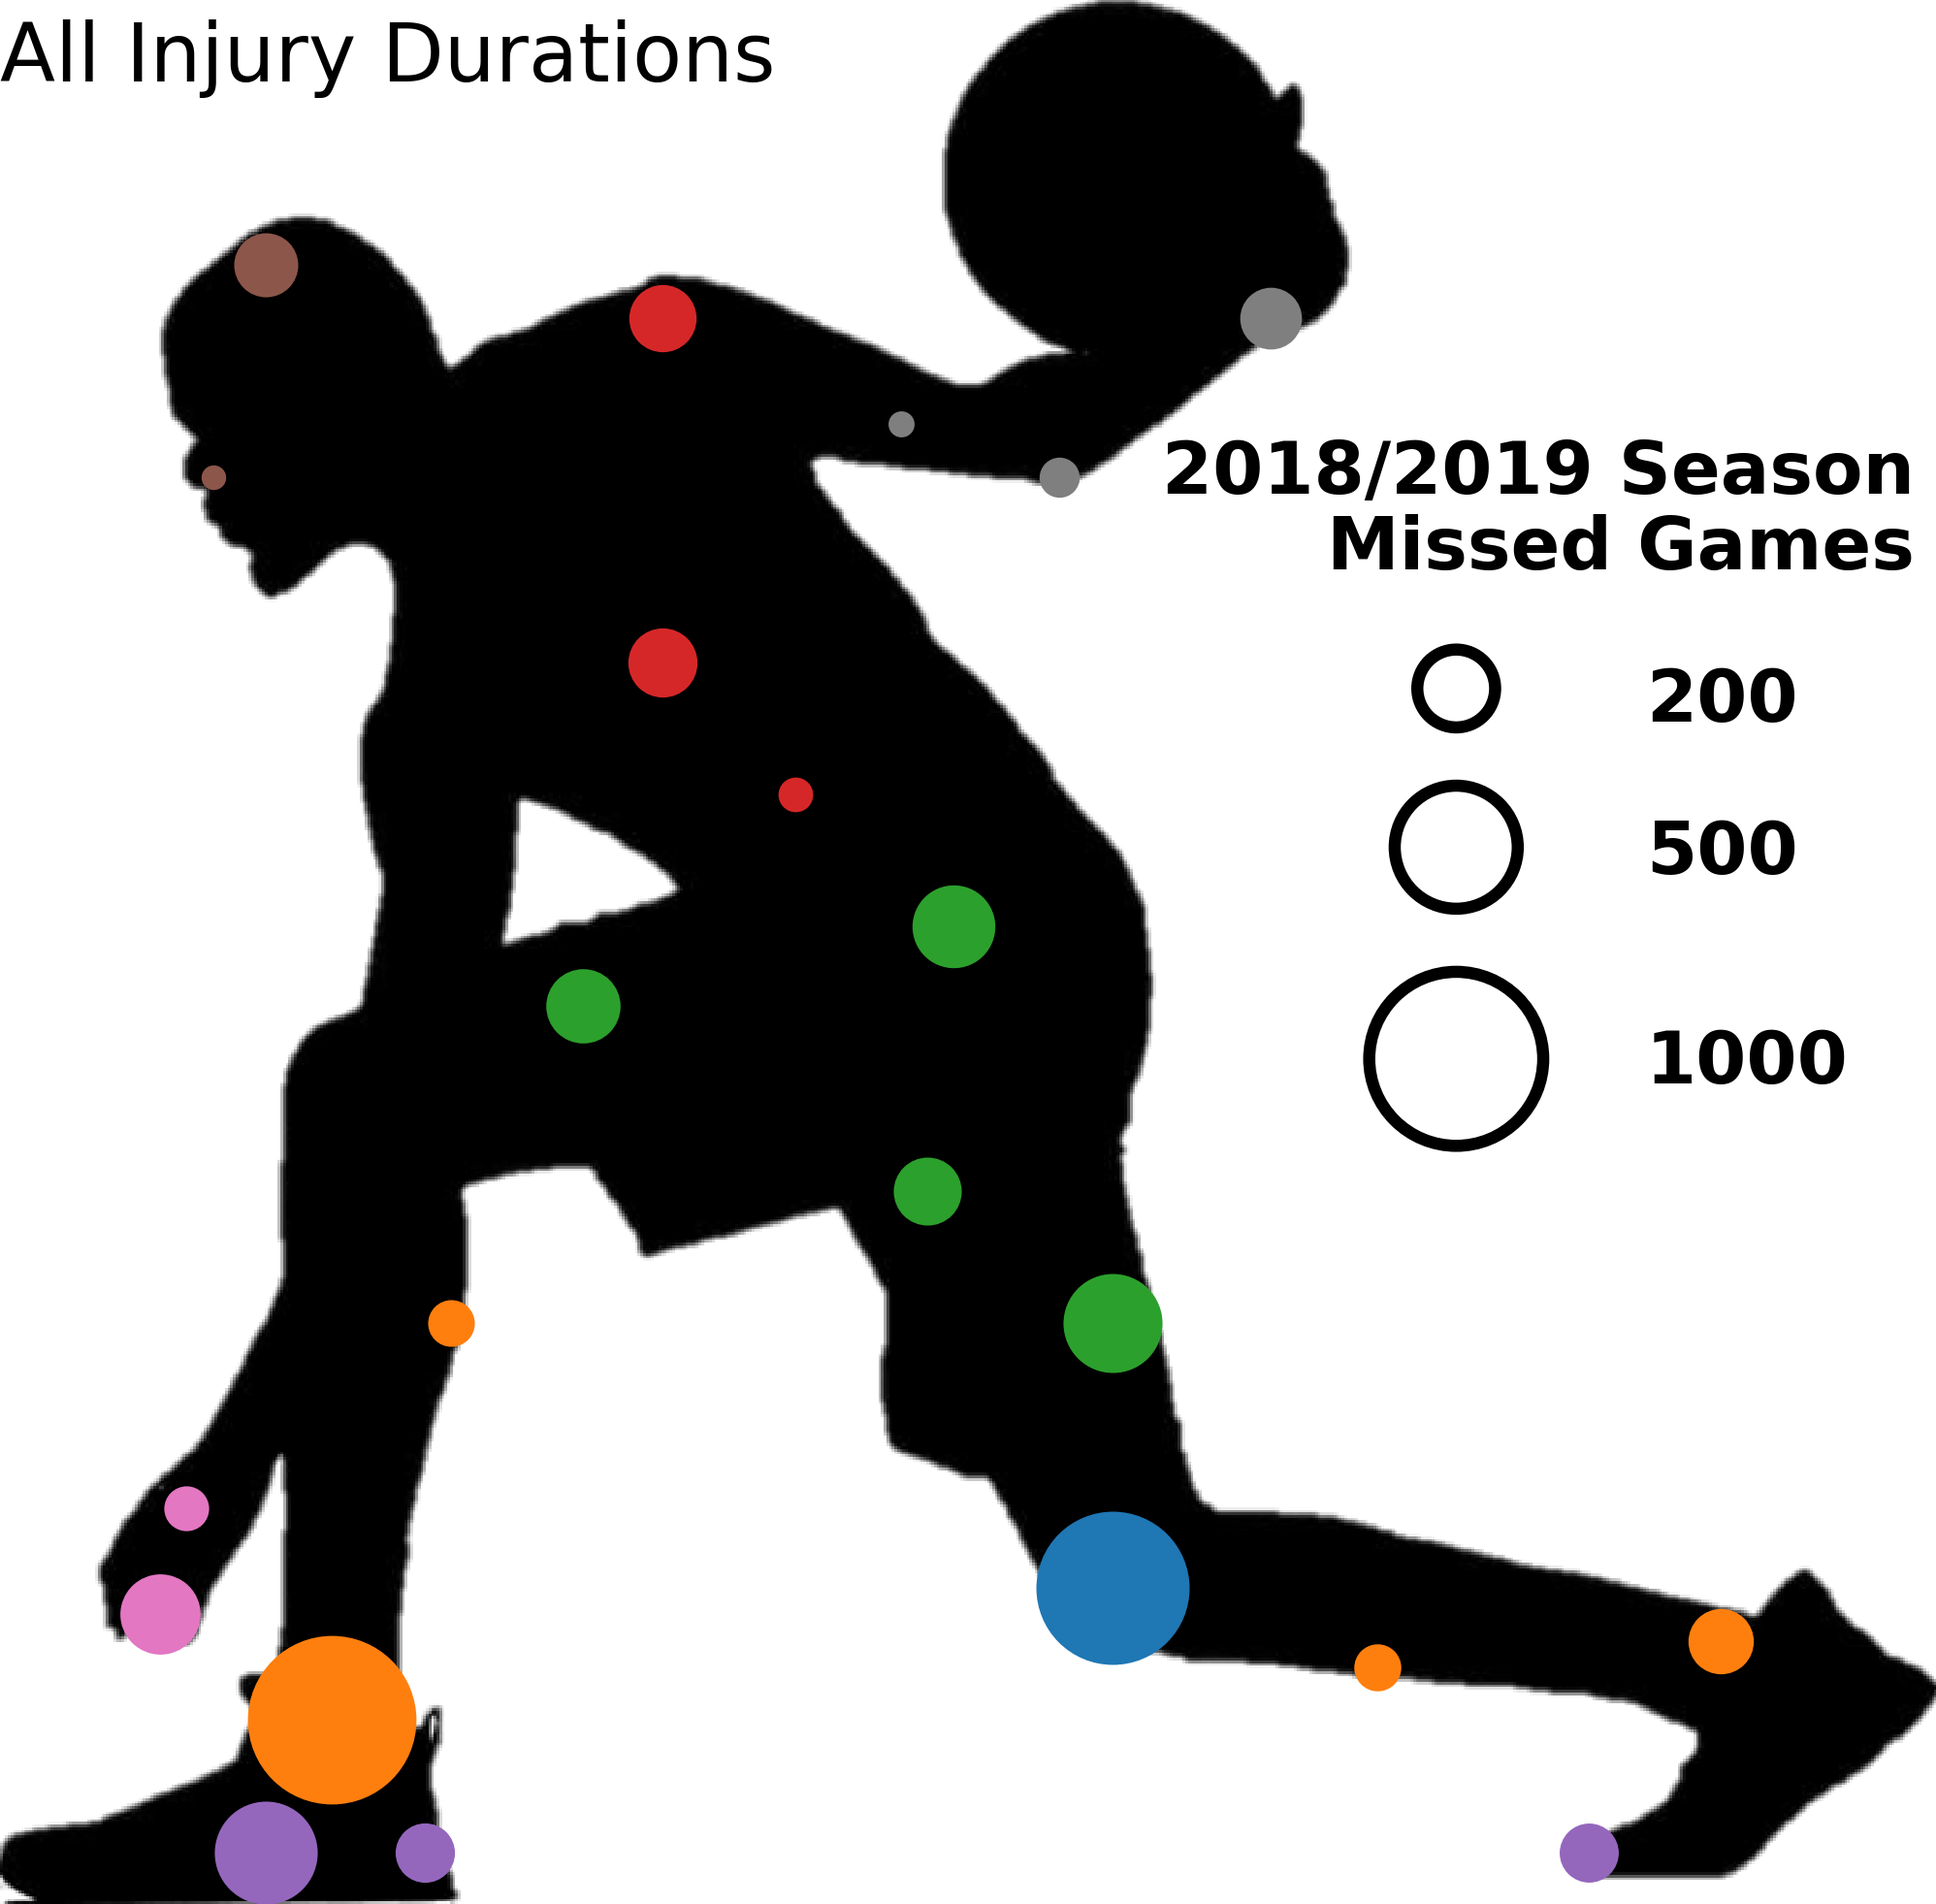
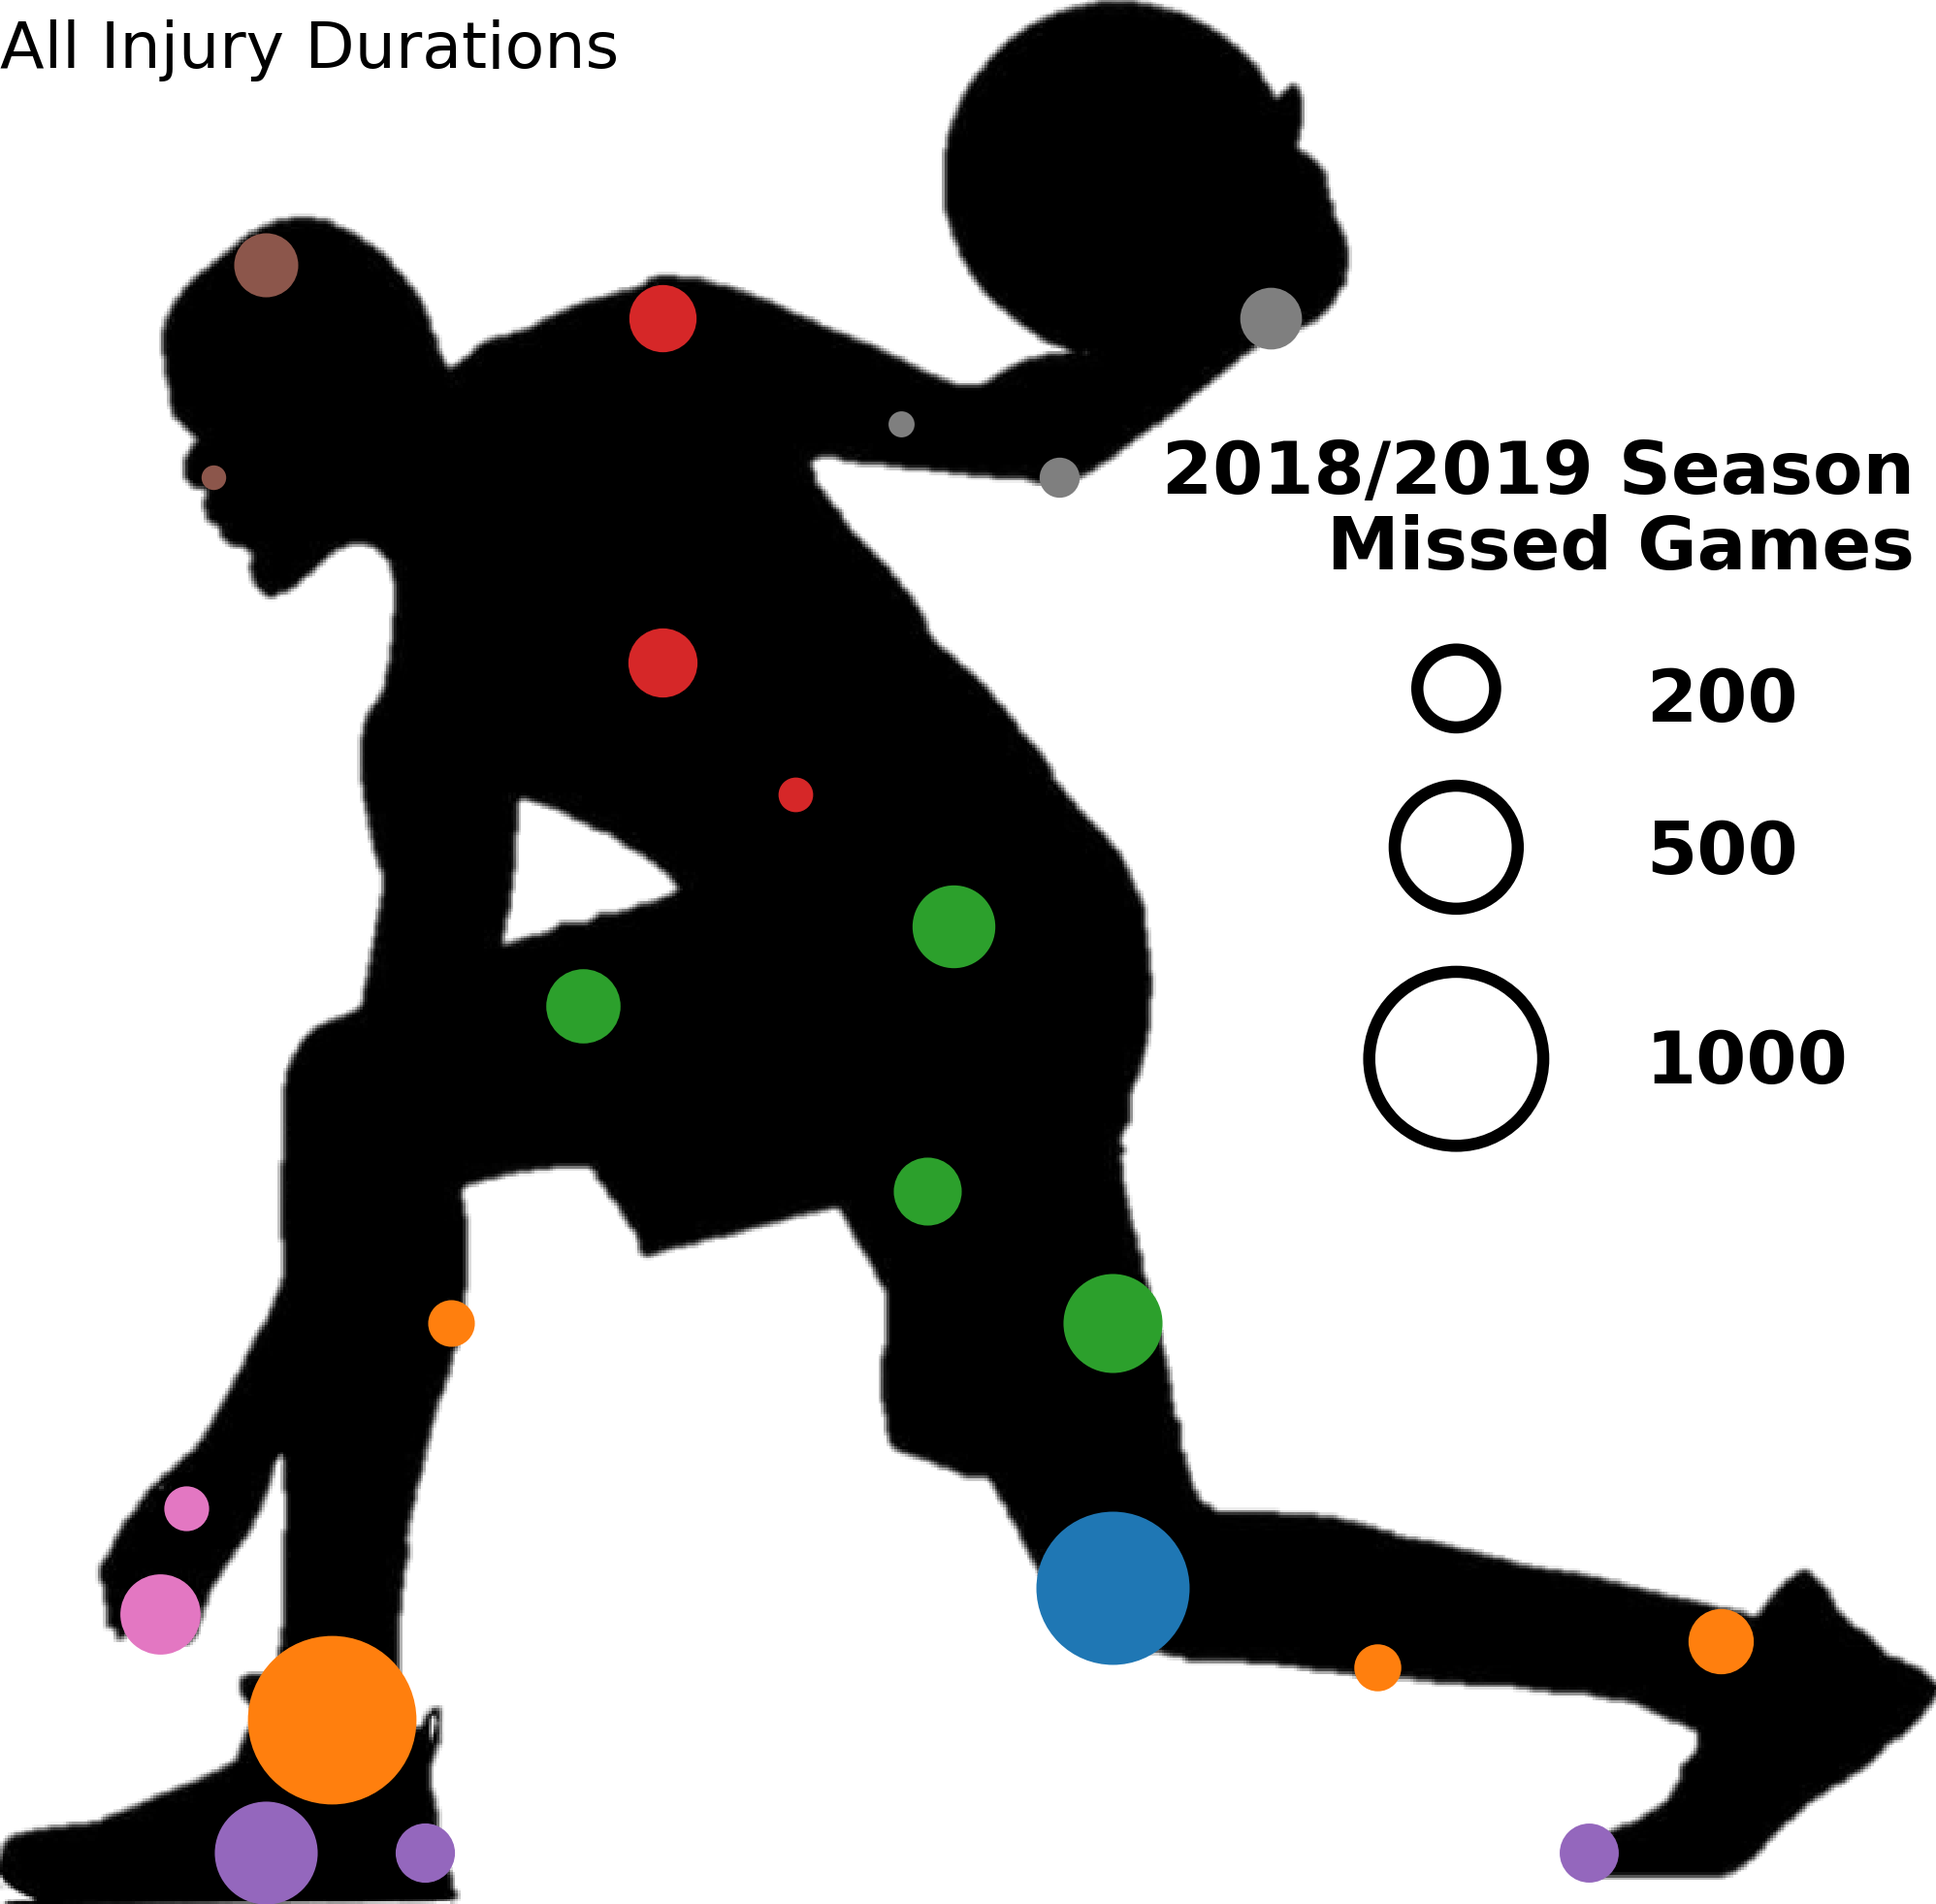
updated plots

Changed region(s): [[0.0, 0.0, 0.4038, 0.0621]]

diff --git a/src/d04_visualization/plot_body_map_serious_injuries.py b/src/d04_visualization/plot_body_map_serious_injuries.py
@@ -225,7 +225,7 @@ ax.text(0.60, 0.77, ('{}/{} Season '.format(year, (year+1))), transform=ax.trans
 ax.text(0.685, 0.73, 'Missed Games', transform=ax.transAxes, fontsize=18, weight ='bold', verticalalignment='top')    
 
 # text box two
-ax.text(0.0000, 0.99, 'Only Serious Injuries', transform=ax.transAxes, fontsize=20, verticalalignment='top')   
+ax.text(0.0000, 0.99, 'Injury Durations > 15 games', transform=ax.transAxes, fontsize=16, verticalalignment='top')   
 
 plt.axis('off')
 plt.show()

diff --git a/src/d04_visualization/plot_body_map_all_injuries.py b/src/d04_visualization/plot_body_map_all_injuries.py
@@ -225,7 +225,7 @@ ax.text(0.60, 0.77, ('{}/{} Season '.format(year, (year+1))), transform=ax.trans
 ax.text(0.685, 0.73, 'Missed Games', transform=ax.transAxes, fontsize=18, weight ='bold', verticalalignment='top')    
 
 # text box two
-ax.text(0.0001, 0.99, 'All Injury Durations', transform=ax.transAxes, fontsize=20, verticalalignment='top')   
+ax.text(0.0001, 0.99, 'All Injury Durations', transform=ax.transAxes, fontsize=16, verticalalignment='top')   
 
 plt.axis('off')
 plt.show()
